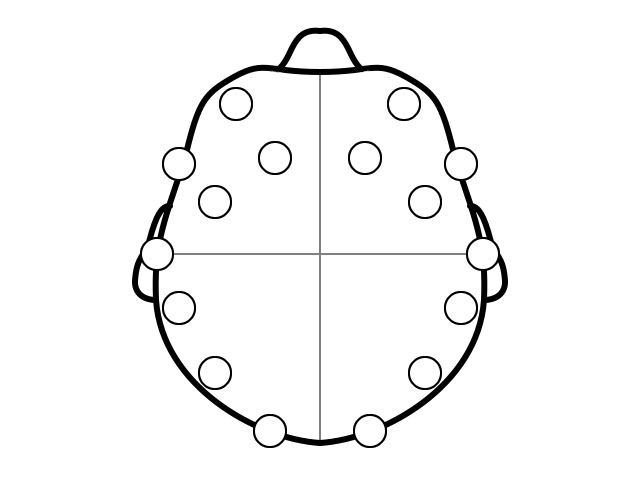
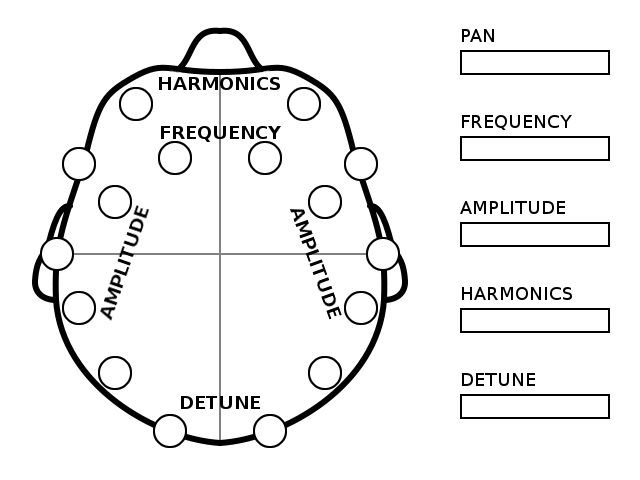
add realtime data visuals

diff --git a/client.py b/client.py
@@ -16,11 +16,11 @@ from simpleOSC import *
 def updateQuality(i, q):
     if not guifeature: return
     coords = (
-        (236,104), (179,164), (275,158),
-        (215,202), (157,254), (215,373),
-        (270,431), (370,431), (425,373),
-        (483,254), (425,202), (365,158),
-        (461,164), (404,104) )
+        (136,104), (79,164), (175,158),
+        (115,202), (57,254), (115,373),
+        (170,431), (270,431), (325,373),
+        (383,254), (325,202), (265,158),
+        (361,164), (304,104) )
     if q == 0:
         color = (255,255,255)
     elif q <= 4:
@@ -37,37 +37,45 @@ def updateQuality(i, q):
 # that leaves four sliding controls: freq, nharm, amp, detune.
 # i'll map each to a quadrant of the brain.
 def processPacket(packet):
-    pan = (((packet.gyroX)/(160.0)) - 5) % 1
+    if guifeature:
+        surface.blit(background, (0,0))
+    pan = (((packet.gyroY)/(1600.0)) - .5) % 1
     nharm = (((packet.sensors['AF3']['value'] + 
         packet.sensors['AF4']['value']) / 
-        (2*900.0)) - 5) % 1
+        (2*9000.0)) - .5) % 1
     freq = (((packet.sensors['F3']['value'] + 
         packet.sensors['F4']['value'] + 
         packet.sensors['F7']['value'] + 
         packet.sensors['F8']['value']) / 
-        (4*900.0)) - 5) % 1
+        (4*9000.0)) - .5) % 1
     amp = (((packet.sensors['FC5']['value'] + 
         packet.sensors['FC6']['value'] + 
         packet.sensors['T7']['value'] + 
         packet.sensors['T8']['value']) / 
-        (4*900.0)) - 5) % 1
+        (4*9000.0)) - .5) % 1
     detune = (((packet.sensors['P7']['value'] + 
         packet.sensors['P8']['value'] + 
         packet.sensors['O1']['value'] + 
         packet.sensors['O2']['value']) / 
-        (4*900.0)) - 5) % 1
+        (4*9000.0)) - .5) % 1
     sendOSCMsg("/inputs/pan", [pan])
     sendOSCMsg("/inputs/nharm", [nharm])
     sendOSCMsg("/inputs/freq", [freq])
-    sendOSCMsg("/inputs/amp", [amp])
+    sendOSCMsg("/inputs/amp", [2 * amp])
     sendOSCMsg("/inputs/detune", [detune])
     print "/inputs/pan [%f]\n/inputs/nharm [%f]\n/inputs/freq [%f]" % (pan, nharm, freq)
     print "/inputs/amp [%f]\n/inputs/detune [%f]" % (amp, detune)
+    if guifeature:
+        pygame.draw.rect(surface, (0,0,255), (462,52,pan*146,21))
+        pygame.draw.rect(surface, (0,0,255), (462,138,freq*146,21))
+        pygame.draw.rect(surface, (0,0,255), (462,224,amp*146,21))
+        pygame.draw.rect(surface, (0,0,255), (462,310,nharm*146,21))
+        pygame.draw.rect(surface, (0,0,255), (462,396,detune*146,21))
     
 
 
 guifeature = True
-parser = argparse.ArgumentParser(description="Create and OSC bridge between Emotiv Epoc USB Receiver and SuperCollider.")
+parser = argparse.ArgumentParser(description="Create an OSC bridge between Emotiv Epoc USB Receiver and SuperCollider.")
 parser.add_argument("--ip", default="127.0.0.1", help="The server's IP.")
 parser.add_argument("--port", type=int, default=57120, help="The server's listening port.")
 parser.add_argument("--nogui", type=bool, default=False, help="Disable the client's graphical callibration tool.")
